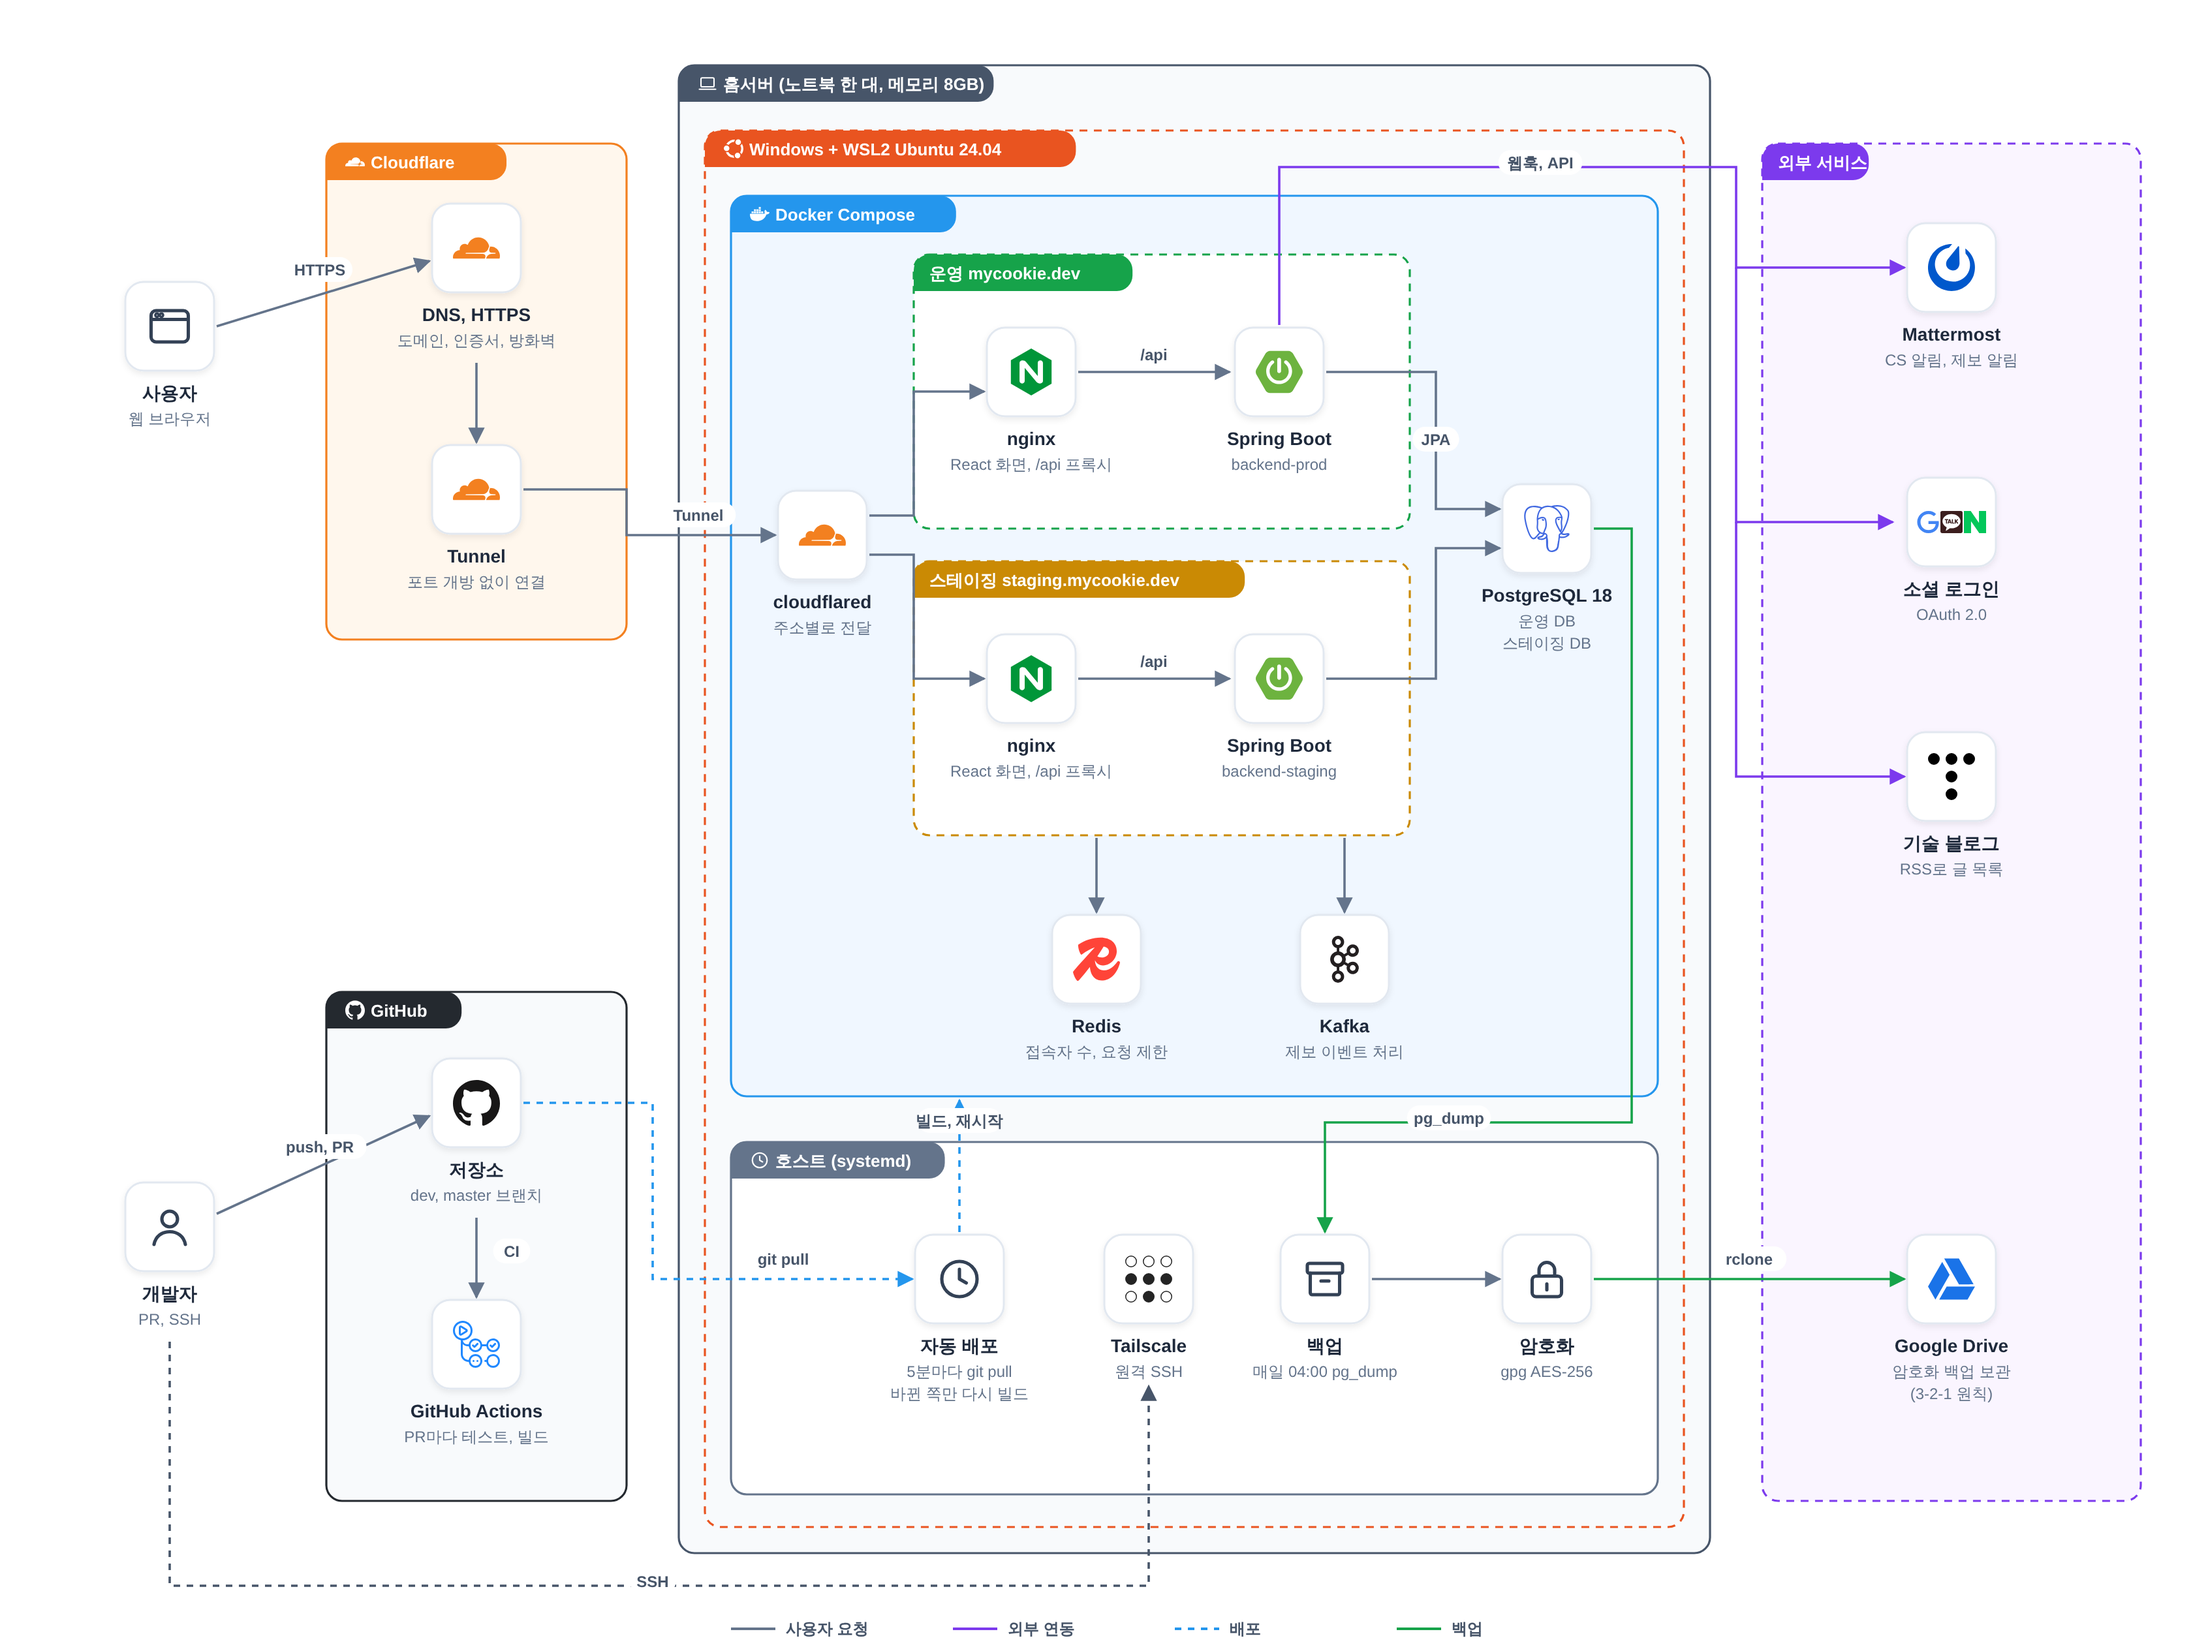
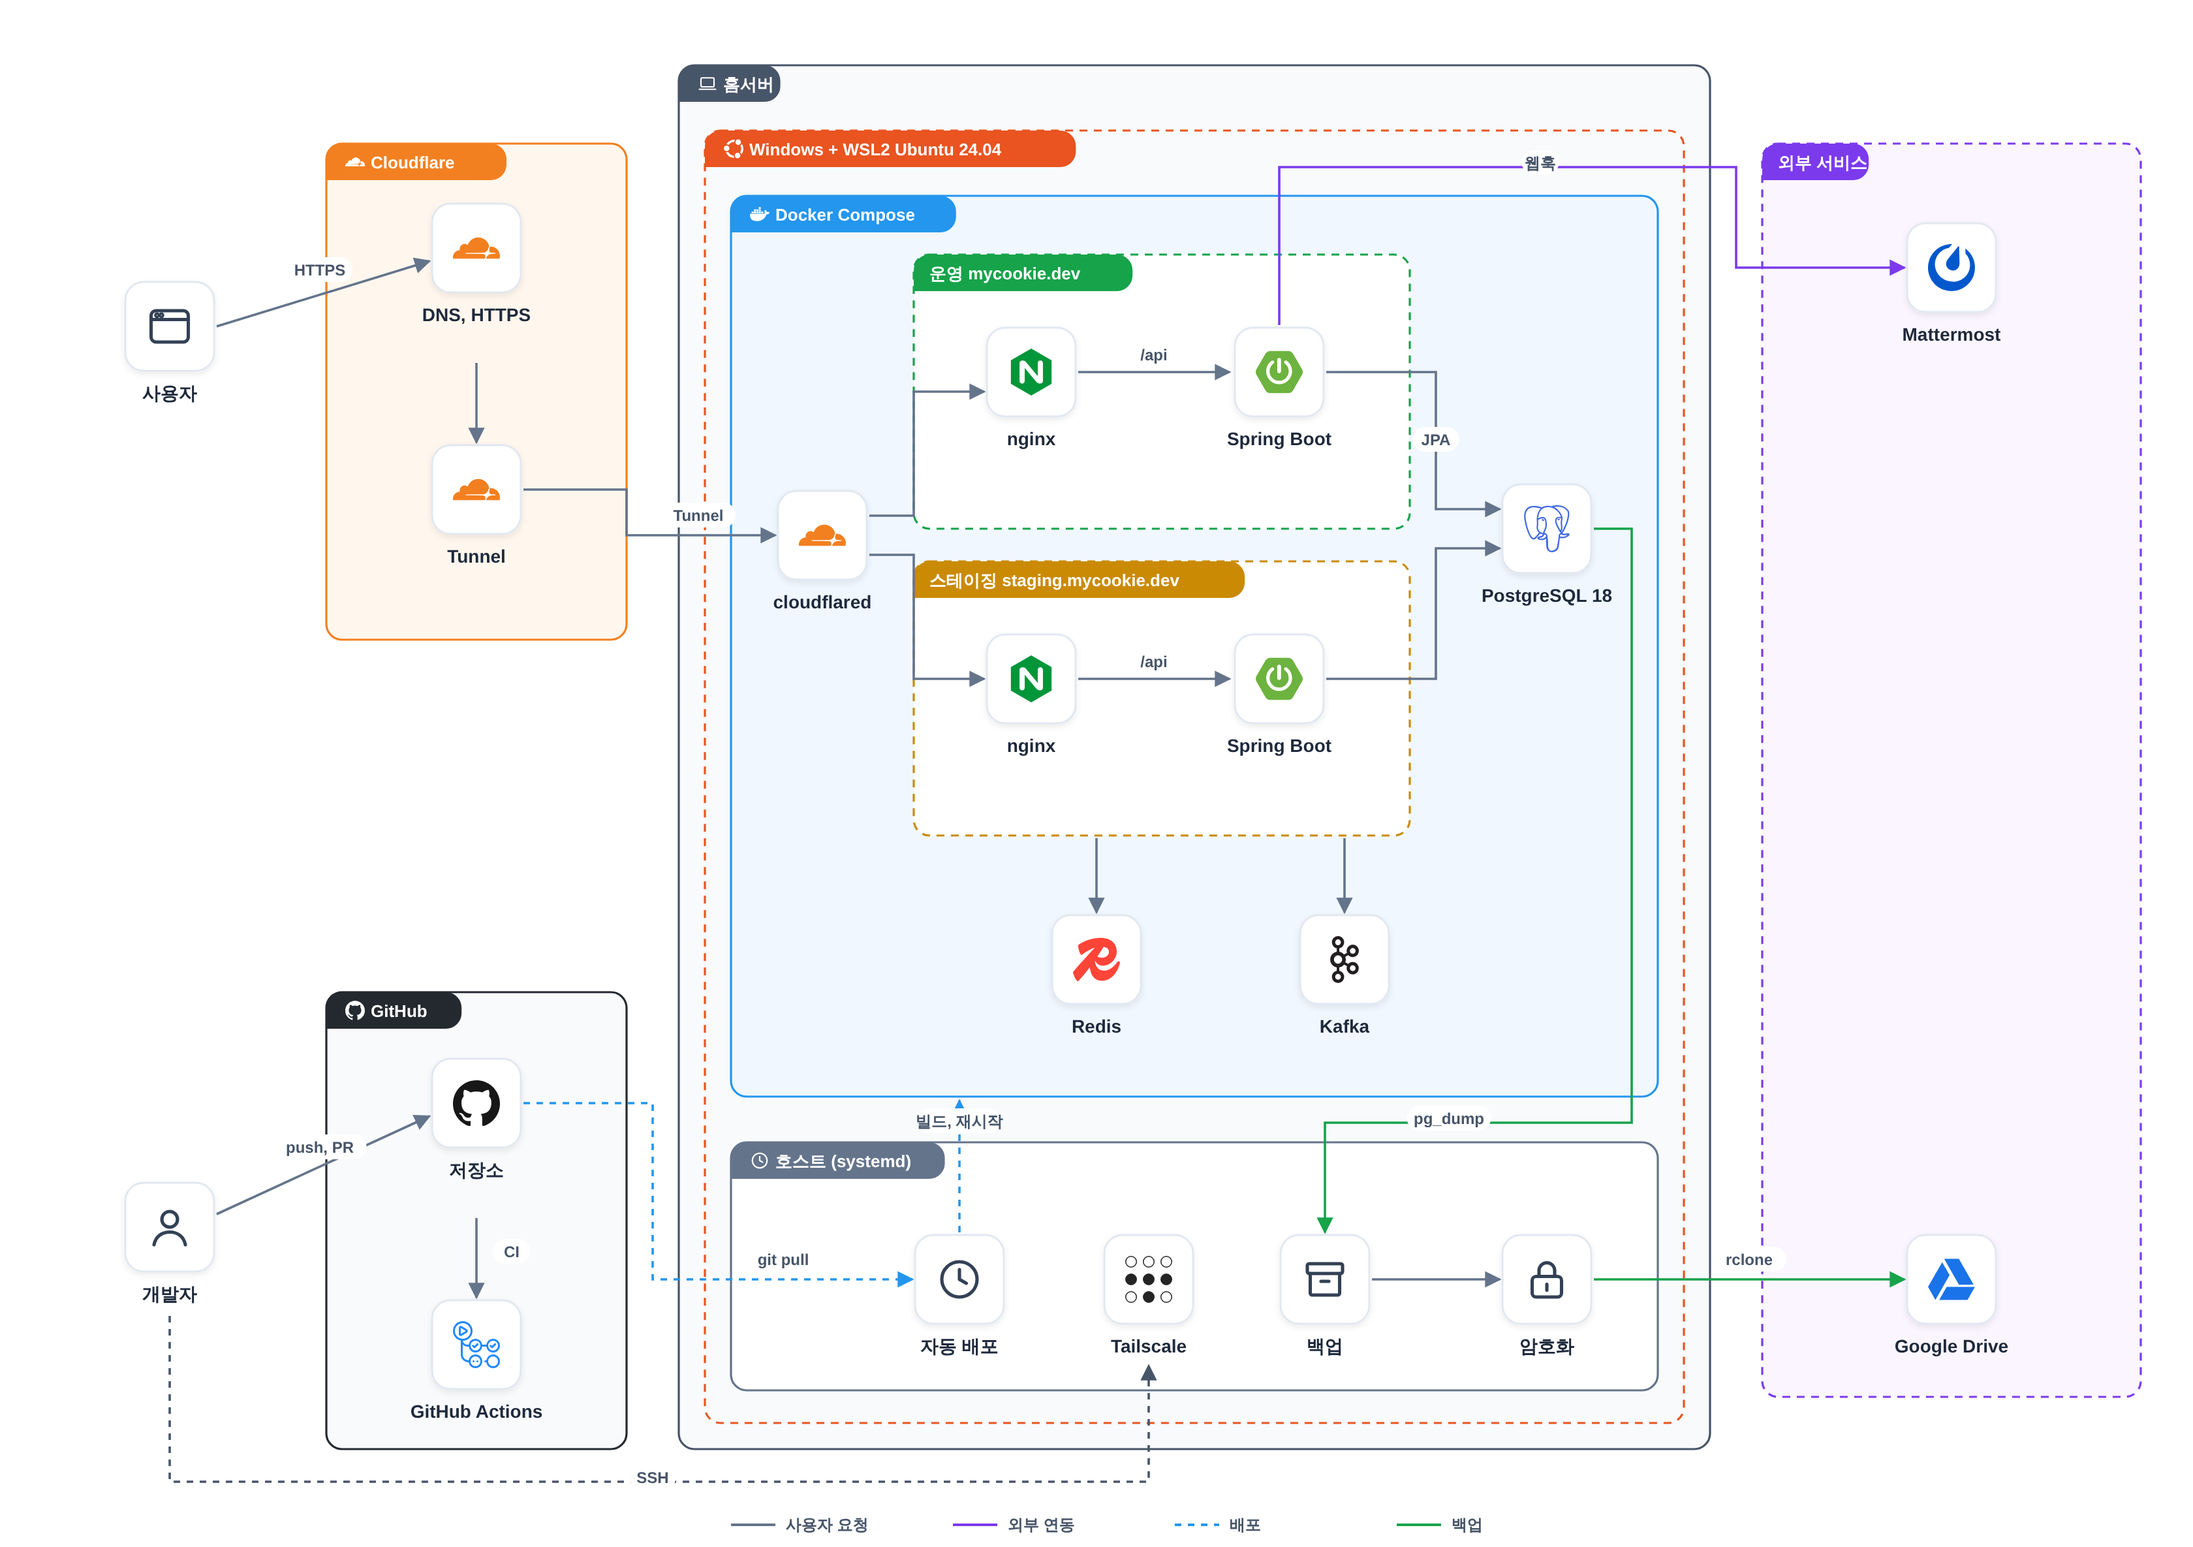
구조도 간소화: 아이콘 아래 설명, 소셜 로그인, 기술 블로그, 메모리 표기 삭제
Claude-Session: https://claude.ai/code/session_01NcA7vv2XyZUUYh4rdU8Yeb

diff --git a/frontend/src/pages/OnboardingPage.jsx b/frontend/src/pages/OnboardingPage.jsx
@@ -51,7 +51,7 @@ export default function OnboardingPage() {
         <p>노트북 한 대(홈서버)에서 화면, 백엔드, DB를 Docker Compose로 돌립니다. 바깥 요청은 Cloudflare 터널로만 들어오고, 공유기 포트는 하나도 열지 않습니다.</p>
         <figure className="ob-figure">
           <a className="ob-diagram-wrap" href={archImg} target="_blank" rel="noopener noreferrer">
-            <img className="ob-diagram" src={archImg} width="1680" height="1265" loading="lazy"
+            <img className="ob-diagram" src={archImg} width="1680" height="1185" loading="lazy"
               alt="사용자 요청이 Cloudflare와 cloudflared를 거쳐 홈서버의 nginx, Spring Boot, PostgreSQL, Redis, Kafka로 이어지고, 자동 배포와 암호화 백업이 Google Drive로 이어지는 구조" />
           </a>
           <figcaption>그림 1. 전체 구조. 회색은 사용자 요청, 보라는 외부 연동, 파란 점선은 배포, 초록은 백업 흐름입니다. 그림을 누르면 크게 볼 수 있어요(원본: <code>docs/architecture/build.py</code>)</figcaption>

diff --git a/docs/architecture/build.py b/docs/architecture/build.py
@@ -12,7 +12,7 @@ from pathlib import Path
 
 ICONS = Path(sys.argv[1]) if len(sys.argv) > 1 else Path("package/icons")
 OUT = Path(__file__).with_name("architecture.svg")
-W, H = 1680, 1265
+W, H = 1680, 1185
 
 BRAND = {  # simple-icons 이름: 색
     "cloudflare": "F38020", "nginx": "009639", "springboot": "6DB33F", "postgresql": "4169E1",
@@ -103,43 +103,41 @@ def arrow(points, label=None, at=None, color="64748B", dash=False, both=False, l
 
 # ── 그룹 ─────────────────────────────────────────────
 group(250, 110, 230, 380, "Cloudflare", "F38020", "cloudflare", fill="#FFF7ED")
-group(250, 760, 230, 390, "GitHub", "24292F", "github", fill="#F8FAFC")
-group(520, 50, 790, 1140, "홈서버 (노트북 한 대, 메모리 8GB)", "475569", "laptop", fill="#F8FAFC")
-group(540, 100, 750, 1070, "Windows + WSL2 Ubuntu 24.04", "E95420", "ubuntu", dash=True)
+group(250, 760, 230, 350, "GitHub", "24292F", "github", fill="#F8FAFC")
+group(520, 50, 790, 1060, "홈서버", "475569", "laptop", fill="#F8FAFC")
+group(540, 100, 750, 990, "Windows + WSL2 Ubuntu 24.04", "E95420", "ubuntu", dash=True)
 group(560, 150, 710, 690, "Docker Compose", "2496ED", "docker", fill="#F0F7FF")
 group(700, 195, 380, 210, "운영  mycookie.dev", "16A34A", dash=True, fill="#fff")
 group(700, 430, 380, 210, "스테이징  staging.mycookie.dev", "CA8A04", dash=True, fill="#fff")
-group(560, 875, 710, 270, "호스트 (systemd)", "64748B", "clock", fill="#fff")
-group(1350, 110, 290, 1040, "외부 서비스", "7C3AED", dash=True, fill="#FAF5FF")
+group(560, 875, 710, 190, "호스트 (systemd)", "64748B", "clock", fill="#fff")
+group(1350, 110, 290, 960, "외부 서비스", "7C3AED", dash=True, fill="#FAF5FF")
 
 # ── 아이콘 ───────────────────────────────────────────
-tile("browser", 130, 250, "사용자", "웹 브라우저")
-tile("person", 130, 940, "개발자", "PR, SSH")
+tile("browser", 130, 250, "사용자")
+tile("person", 130, 940, "개발자")
 
-tile("cloudflare", 365, 190, "DNS, HTTPS", "도메인, 인증서, 방화벽")
-tile("cloudflare", 365, 375, "Tunnel", "포트 개방 없이 연결")
+tile("cloudflare", 365, 190, "DNS, HTTPS")
+tile("cloudflare", 365, 375, "Tunnel")
 
-tile("github", 365, 845, "저장소", "dev, master 브랜치")
-tile("githubactions", 365, 1030, "GitHub Actions", "PR마다 테스트, 빌드")
+tile("github", 365, 845, "저장소")
+tile("githubactions", 365, 1030, "GitHub Actions")
 
-tile("cloudflare", 630, 410, "cloudflared", "주소별로 전달")
-tile("nginx", 790, 285, "nginx", "React 화면, /api 프록시")
-tile("springboot", 980, 285, "Spring Boot", "backend-prod")
-tile("nginx", 790, 520, "nginx", "React 화면, /api 프록시")
-tile("springboot", 980, 520, "Spring Boot", "backend-staging")
-tile("postgresql", 1185, 405, "PostgreSQL 18", "운영 DB\n스테이징 DB")
-tile("redis", 840, 735, "Redis", "접속자 수, 요청 제한")
-tile("apachekafka", 1030, 735, "Kafka", "제보 이벤트 처리")
+tile("cloudflare", 630, 410, "cloudflared")
+tile("nginx", 790, 285, "nginx")
+tile("springboot", 980, 285, "Spring Boot")
+tile("nginx", 790, 520, "nginx")
+tile("springboot", 980, 520, "Spring Boot")
+tile("postgresql", 1185, 405, "PostgreSQL 18")
+tile("redis", 840, 735, "Redis")
+tile("apachekafka", 1030, 735, "Kafka")
 
-tile("clock", 735, 980, "자동 배포", "5분마다 git pull\n바뀐 쪽만 다시 빌드")
-tile("tailscale", 880, 980, "Tailscale", "원격 SSH")
-tile("archive", 1015, 980, "백업", "매일 04:00 pg_dump")
-tile("lock", 1185, 980, "암호화", "gpg AES-256")
+tile("clock", 735, 980, "자동 배포")
+tile("tailscale", 880, 980, "Tailscale")
+tile("archive", 1015, 980, "백업")
+tile("lock", 1185, 980, "암호화")
 
-tile("mattermost", 1495, 205, "Mattermost", "CS 알림, 제보 알림")
-tile(None, 1495, 400, "소셜 로그인", "OAuth 2.0", icons=["google", "kakaotalk", "naver"])
-tile("tistory", 1495, 595, "기술 블로그", "RSS로 글 목록")
-tile("googledrive", 1495, 980, "Google Drive", "암호화 백업 보관\n(3-2-1 원칙)")
+tile("mattermost", 1495, 205, "Mattermost")
+tile("googledrive", 1495, 980, "Google Drive")
 
 # ── 흐름 ─────────────────────────────────────────────
 arrow([(166, 250), (329, 200)], "HTTPS", (245, 210))
@@ -156,23 +154,21 @@ arrow([(840, 642), (840, 699)])
 arrow([(1030, 642), (1030, 699)])
 
 # 백엔드 → 외부 서비스
-arrow([(980, 249), (980, 128), (1330, 128), (1330, 205), (1459, 205)], "웹훅, API", (1180, 128), color="7C3AED")
-arrow([(1330, 205), (1330, 400), (1450, 400)], color="7C3AED")
-arrow([(1330, 400), (1330, 595), (1459, 595)], color="7C3AED")
+arrow([(980, 249), (980, 128), (1330, 128), (1330, 205), (1459, 205)], "웹훅", (1180, 128), color="7C3AED")
 
 # 개발 흐름
 arrow([(166, 930), (329, 855)], "push, PR", (245, 882))
 arrow([(365, 933), (365, 994)], "CI", (392, 962))
 arrow([(401, 845), (500, 845), (500, 980), (699, 980)], "git pull", (600, 968), color="2496ED", dash=True)
 arrow([(735, 944), (735, 843)], "빌드, 재시작", (735, 862), color="2496ED", dash=True)
-arrow([(130, 1028), (130, 1215), (880, 1215), (880, 1062)], "SSH", (500, 1215), color="475569", dash=True)
+arrow([(130, 1008), (130, 1135), (880, 1135), (880, 1046)], "SSH", (500, 1135), color="475569", dash=True)
 
 # 백업 흐름
 arrow([(1221, 405), (1250, 405), (1250, 860), (1015, 860), (1015, 944)], "pg_dump", (1110, 860), color="16A34A")
 arrow([(1051, 980), (1149, 980)])
 arrow([(1221, 980), (1459, 980)], "rclone", (1340, 968), color="16A34A")
 
-legend_y = 1252
+legend_y = 1172
 for i, (c, dash, s) in enumerate([("64748B", False, "사용자 요청"), ("7C3AED", False, "외부 연동"),
                                    ("2496ED", True, "배포"), ("16A34A", False, "백업")]):
     x = 560 + i * 170
